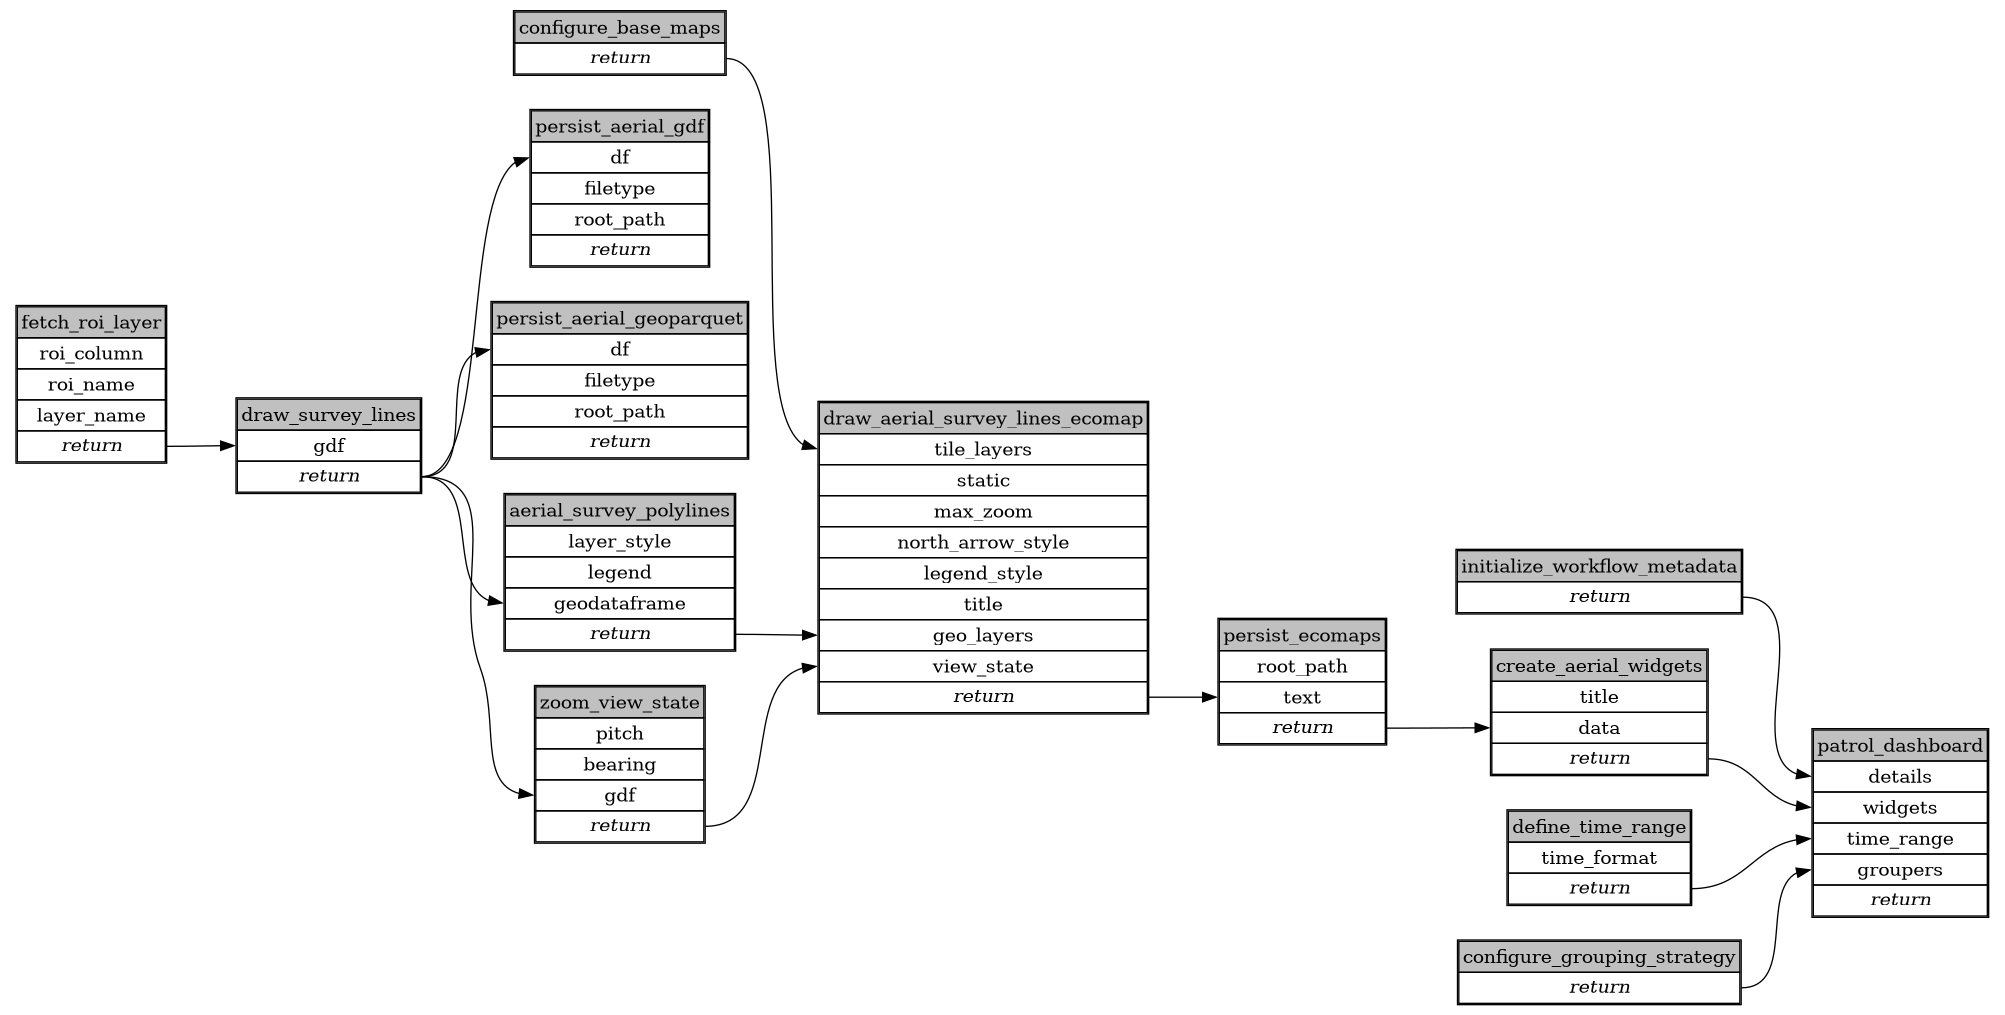
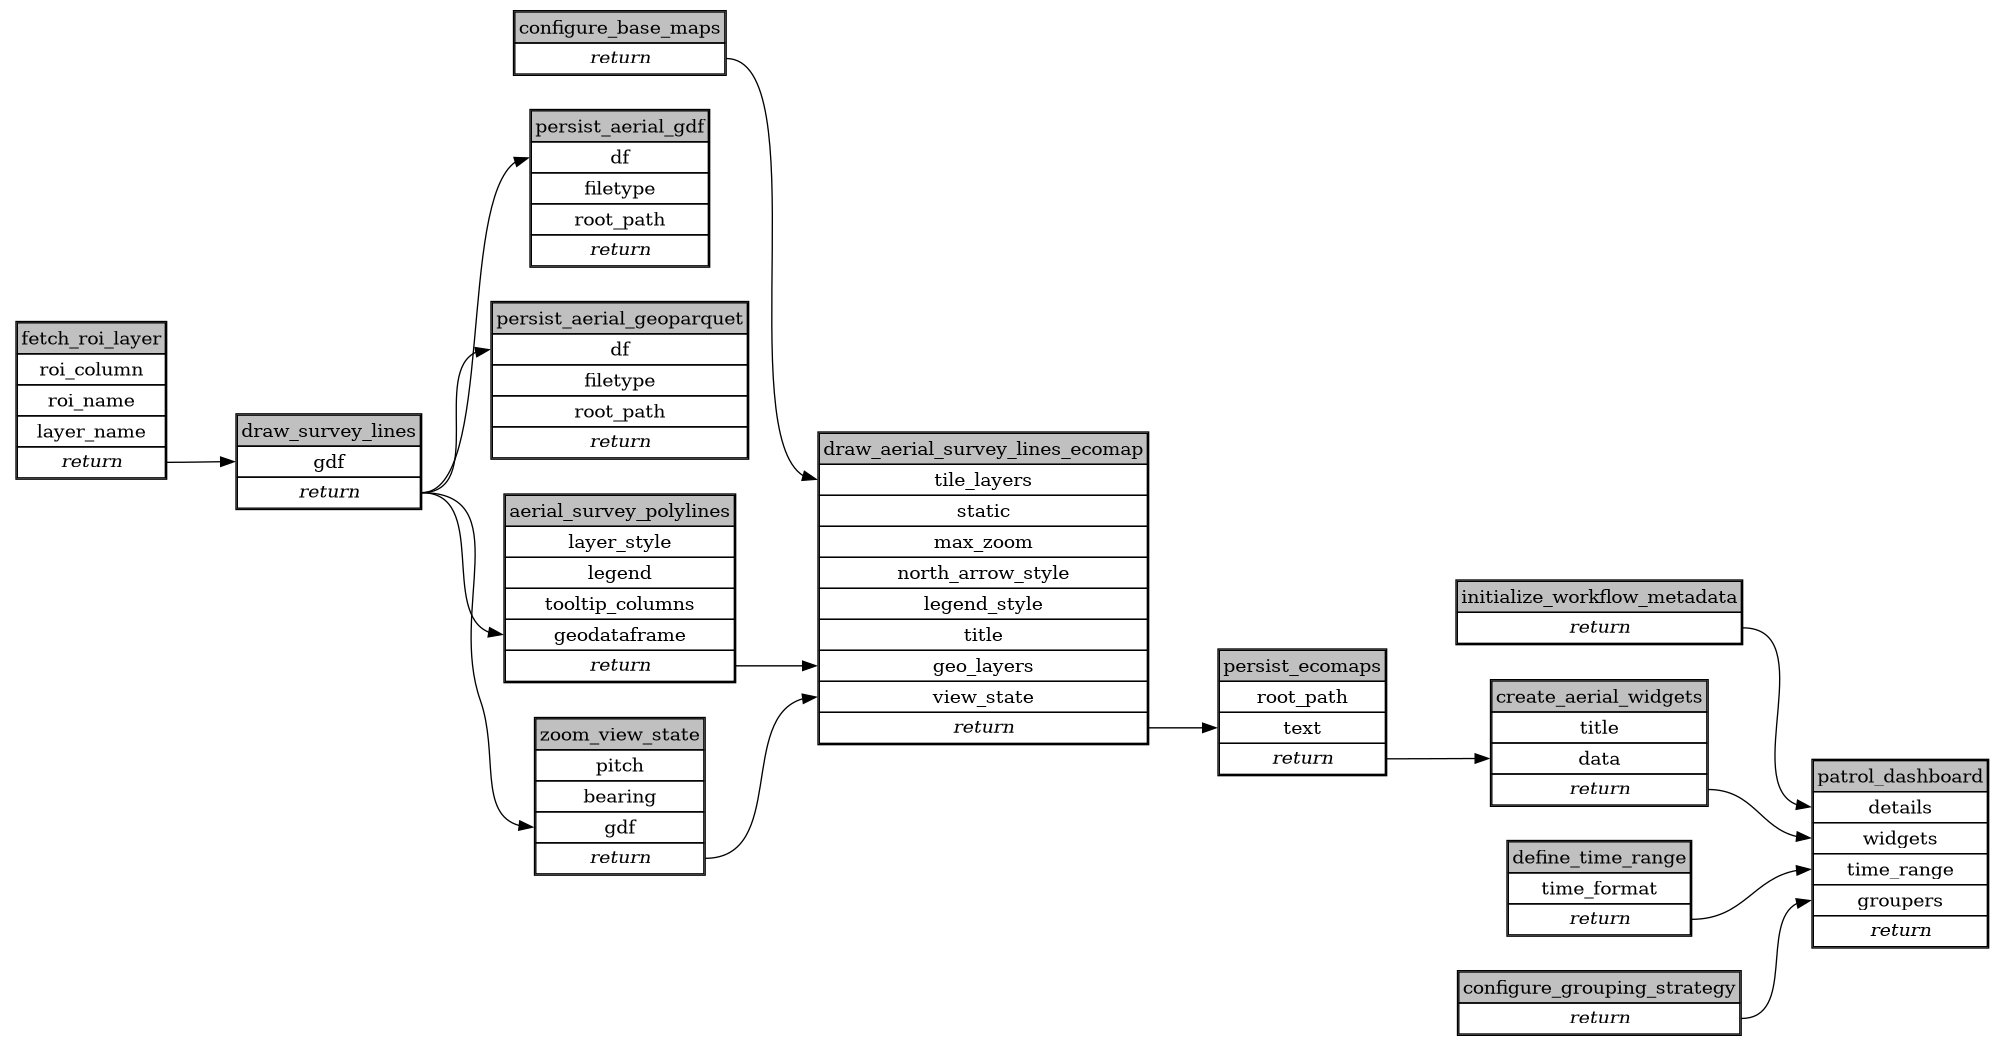
clean up polyline layer config params:

Changed region(s): [[0.0, 0.0, 0.9895, 0.9773]]

diff --git a/workflows/aerial_survey_lines/ecoscope-workflows-aerial-survey-lines-workflow/ecoscope_workflows_aerial_survey_lines_workflow/formdata.py b/workflows/aerial_survey_lines/ecoscope-workflows-aerial-survey-lines-workflow/ecoscope_workflows_aerial_survey_lines_workflow/formdata.py
@@ -204,17 +204,6 @@ class DrawSurveyLines(BaseModel):
     spacing: Optional[int] = Field(500, title="Spacing")
 
 
-class AerialSurveyPolylines(BaseModel):
-    model_config = ConfigDict(
-        extra="forbid",
-    )
-    tooltip_columns: Optional[List[str]] = Field(
-        None,
-        description="If present, only the listed dataframe columns will display in the layer's picking info",
-        title="Tooltip Columns",
-    )
-
-
 class TimezoneInfo(BaseModel):
     label: str = Field(..., title="Label")
     tzCode: str = Field(..., title="Tzcode")
@@ -275,7 +264,4 @@ class FormData(BaseModel):
     )
     draw_survey_lines: Optional[DrawSurveyLines] = Field(
         None, title="Draw Aerial Survey Lines"
-    )
-    aerial_survey_polylines: Optional[AerialSurveyPolylines] = Field(
-        None, title="Create Aerial Survey Lines"
     )

diff --git a/workflows/aerial_survey_lines/ecoscope-workflows-aerial-survey-lines-workflow/ecoscope_workflows_aerial_survey_lines_workflow/params.py b/workflows/aerial_survey_lines/ecoscope-workflows-aerial-survey-lines-workflow/ecoscope_workflows_aerial_survey_lines_workflow/params.py
@@ -204,17 +204,6 @@ class DrawSurveyLines(BaseModel):
     spacing: Optional[int] = Field(500, title="Spacing")
 
 
-class AerialSurveyPolylines(BaseModel):
-    model_config = ConfigDict(
-        extra="forbid",
-    )
-    tooltip_columns: Optional[List[str]] = Field(
-        None,
-        description="If present, only the listed dataframe columns will display in the layer's picking info",
-        title="Tooltip Columns",
-    )
-
-
 class TimezoneInfo(BaseModel):
     label: str = Field(..., title="Label")
     tzCode: str = Field(..., title="Tzcode")
@@ -275,7 +264,4 @@ class Params(BaseModel):
     )
     draw_survey_lines: Optional[DrawSurveyLines] = Field(
         None, title="Draw Aerial Survey Lines"
-    )
-    aerial_survey_polylines: Optional[AerialSurveyPolylines] = Field(
-        None, title="Create Aerial Survey Lines"
     )

diff --git a/workflows/aerial_survey_lines/ecoscope-workflows-aerial-survey-lines-workflow/ecoscope_workflows_aerial_survey_lines_workflow/dags/jupytext.py b/workflows/aerial_survey_lines/ecoscope-workflows-aerial-survey-lines-workflow/ecoscope_workflows_aerial_survey_lines_workflow/dags/jupytext.py
@@ -221,7 +221,6 @@ persist_aerial_geoparquet = (
 # parameters
 
 aerial_survey_polylines_params = dict(
-    tooltip_columns=...,
     zoom=...,
 )
 
@@ -239,6 +238,7 @@ aerial_survey_polylines = (
             "width_unit": "pixels",
         },
         legend={"labels": ["Aerial survey lines"], "colors": ["#2f4f4f"]},
+        tooltip_columns=[],
         geodataframe=draw_survey_lines,
         **aerial_survey_polylines_params,
     )

diff --git a/workflows/aerial_survey_lines/ecoscope-workflows-aerial-survey-lines-workflow/ecoscope_workflows_aerial_survey_lines_workflow/dags/run_async.py b/workflows/aerial_survey_lines/ecoscope-workflows-aerial-survey-lines-workflow/ecoscope_workflows_aerial_survey_lines_workflow/dags/run_async.py
@@ -144,6 +144,7 @@ def main(params: Params):
                     "width_unit": "pixels",
                 },
                 "legend": {"labels": ["Aerial survey lines"], "colors": ["#2f4f4f"]},
+                "tooltip_columns": [],
                 "geodataframe": DependsOn("draw_survey_lines"),
             }
             | (params_dict.get("aerial_survey_polylines") or {}),

diff --git a/workflows/aerial_survey_lines/ecoscope-workflows-aerial-survey-lines-workflow/ecoscope_workflows_aerial_survey_lines_workflow/dags/run_async_mock_io.py b/workflows/aerial_survey_lines/ecoscope-workflows-aerial-survey-lines-workflow/ecoscope_workflows_aerial_survey_lines_workflow/dags/run_async_mock_io.py
@@ -161,6 +161,7 @@ def main(params: Params):
                     "width_unit": "pixels",
                 },
                 "legend": {"labels": ["Aerial survey lines"], "colors": ["#2f4f4f"]},
+                "tooltip_columns": [],
                 "geodataframe": DependsOn("draw_survey_lines"),
             }
             | (params_dict.get("aerial_survey_polylines") or {}),

diff --git a/workflows/aerial_survey_lines/ecoscope-workflows-aerial-survey-lines-workflow/ecoscope_workflows_aerial_survey_lines_workflow/dags/run_sequential.py b/workflows/aerial_survey_lines/ecoscope-workflows-aerial-survey-lines-workflow/ecoscope_workflows_aerial_survey_lines_workflow/dags/run_sequential.py
@@ -112,6 +112,7 @@ def main(params: Params):
                 "width_unit": "pixels",
             },
             legend={"labels": ["Aerial survey lines"], "colors": ["#2f4f4f"]},
+            tooltip_columns=[],
             geodataframe=draw_survey_lines,
             **(params_dict.get("aerial_survey_polylines") or {}),
         )

diff --git a/workflows/aerial_survey_lines/ecoscope-workflows-aerial-survey-lines-workflow/ecoscope_workflows_aerial_survey_lines_workflow/dags/run_sequential_mock_io.py b/workflows/aerial_survey_lines/ecoscope-workflows-aerial-survey-lines-workflow/ecoscope_workflows_aerial_survey_lines_workflow/dags/run_sequential_mock_io.py
@@ -129,6 +129,7 @@ def main(params: Params):
                 "width_unit": "pixels",
             },
             legend={"labels": ["Aerial survey lines"], "colors": ["#2f4f4f"]},
+            tooltip_columns=[],
             geodataframe=draw_survey_lines,
             **(params_dict.get("aerial_survey_polylines") or {}),
         )

diff --git a/workflows/aerial_survey_lines/ecoscope-workflows-aerial-survey-lines-workflow/README.md b/workflows/aerial_survey_lines/ecoscope-workflows-aerial-survey-lines-workflow/README.md
@@ -5,17 +5,17 @@
 
 ```yaml
 # fingerprint:
-artifacts_sha256_basic: a833ff61104417eccc11a4f233cdf6a34b4ad7126bbe1c208ce00adb5b05e447
-artifacts_sha256_strict: 9c2f19be7b8c4d83e8a5c065c30a7dcfd95351095669ed3ecf0b1c80809fa7ae
+artifacts_sha256_basic: c550c82ab4b0d2837ea2d4f1b34e7b2b412dd0a2d60f1faff16d63a8d1d514a5
+artifacts_sha256_strict: e311f16a1510f33cbd30e45b49d1b1b08a38353cb00aae9bbc19877f9a12dcb8
 installed_requirements:
 - channel: https://repo.prefix.dev/ecoscope-workflows/
   name: ecoscope-workflows-core
   version: {version: ==0.14.0}
 - channel: file:///tmp/ecoscope-workflows-custom/release/artifacts/
   name: ecoscope-workflows-ext-ste
-  version: {version: ==10000.dev8+ge42be3c5d.d20251106}
-params_sha256: 5783acf224f1573ffde6cfd6e7c45d4dc1f5d18db6b9ac8f8ae93eb7610155c4
-spec_sha256: f0a803275f41f6c0fbb085b206fcf2170b46f7abf0354a7a5dbd018e9a9ced7b
+  version: {version: ==10000.dev9+g3e9271bf2.d20251106}
+params_sha256: dfabfef006f092ab39ee2877260142634c5f3bdb818da66e202ed8997a0e7b18
+spec_sha256: 442123264cc7862c70dade1a60824d3eb099dbabed2f23ff109070037962e029
 
 ```
 
